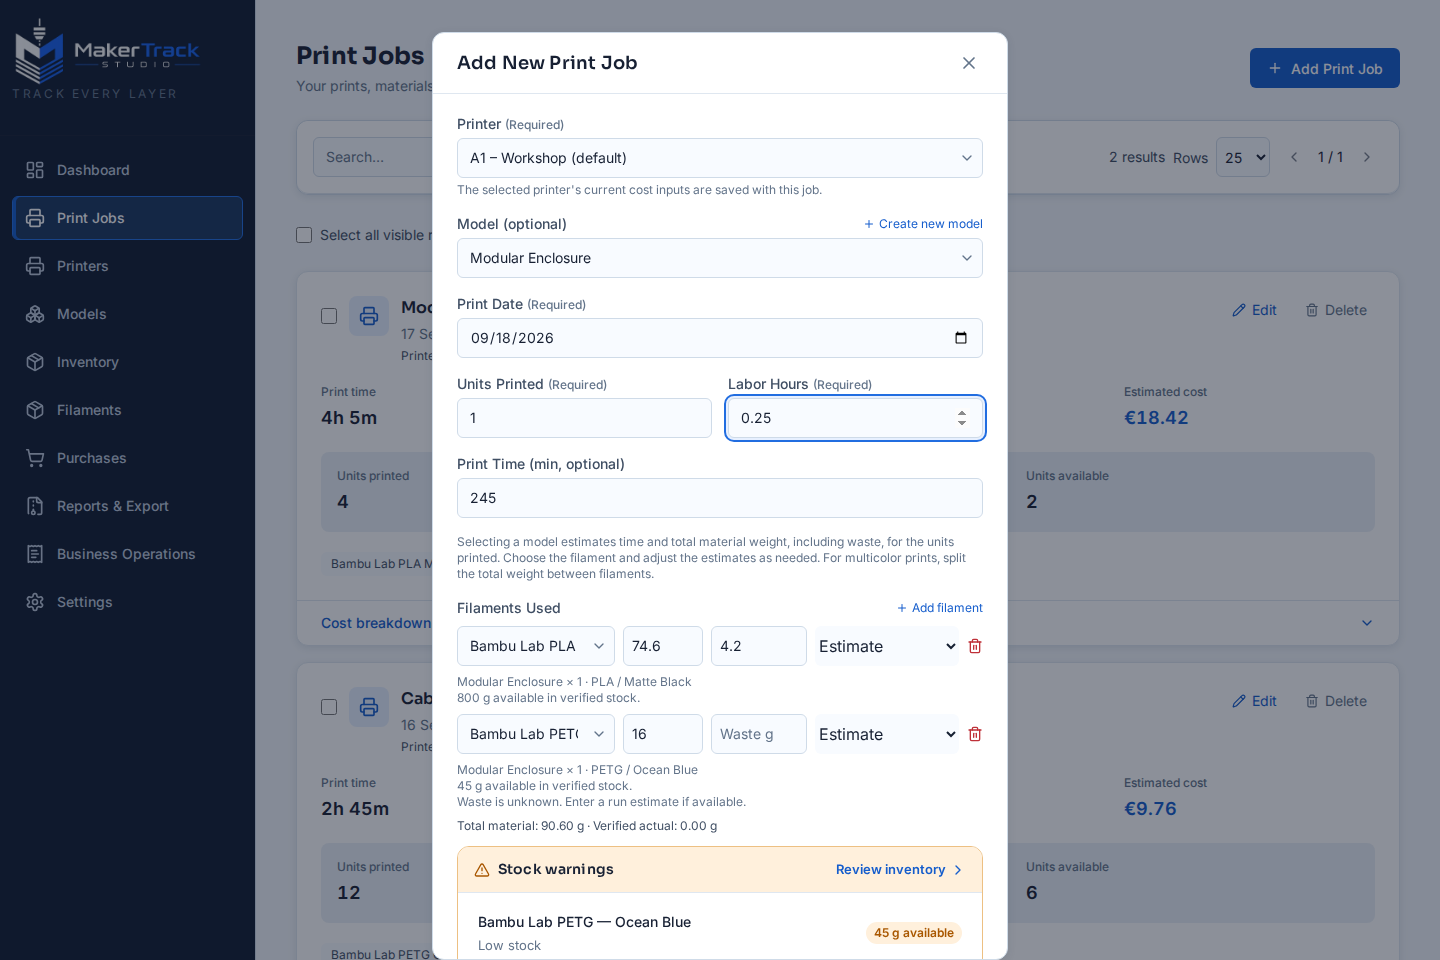
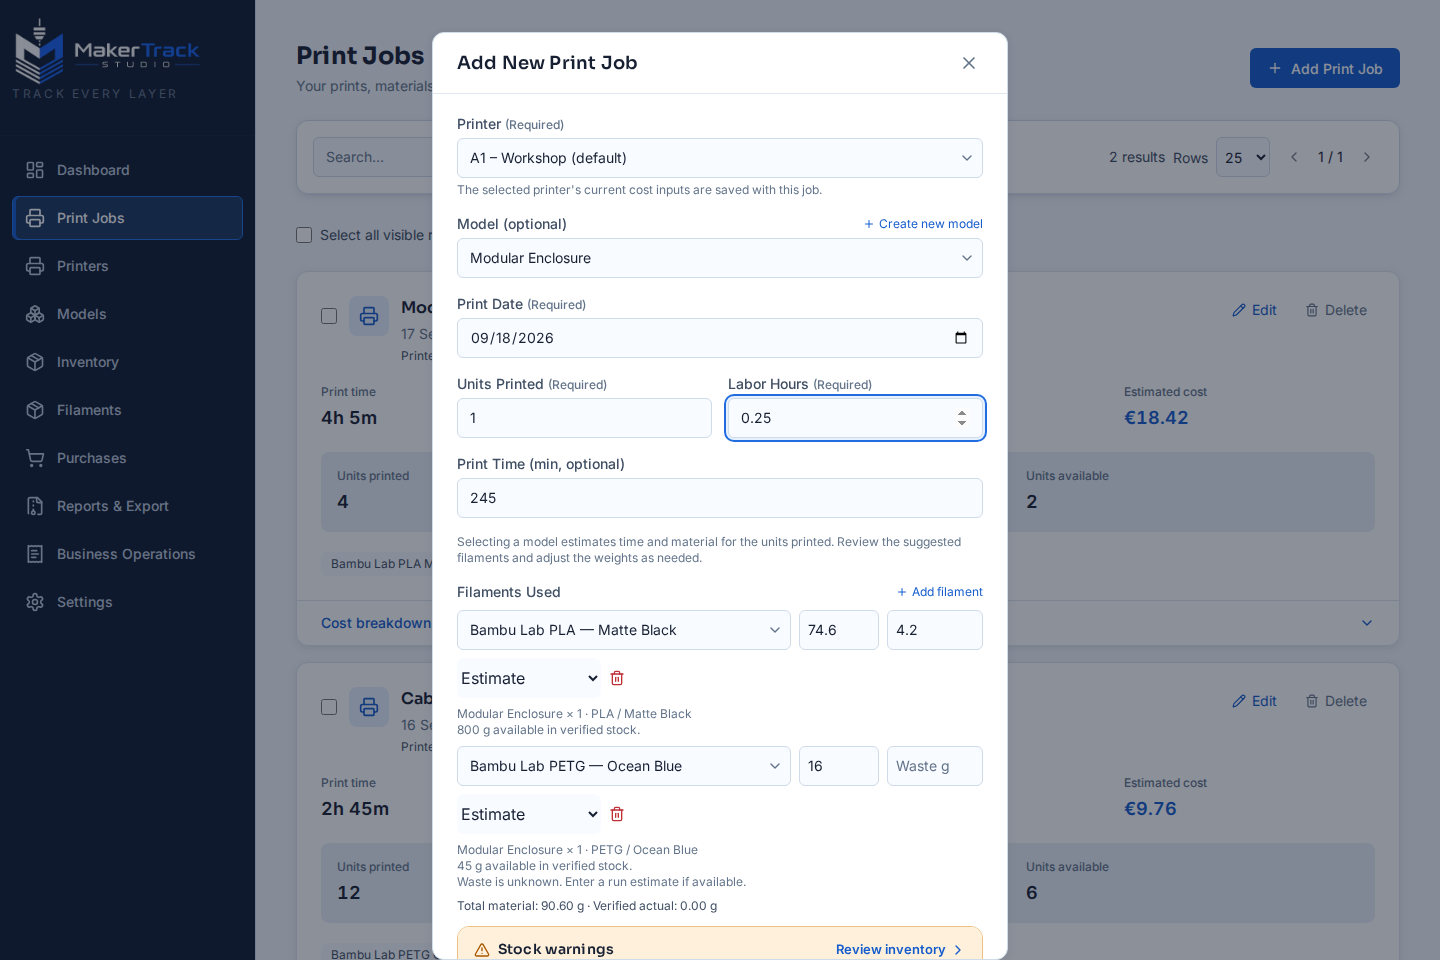
fix(production): clarify material estimates on narrow forms

diff --git a/apps/web/src/i18n/resources/pt-PT.js b/apps/web/src/i18n/resources/pt-PT.js
@@ -302,8 +302,8 @@ export default {
     title: 'Impressões', description: 'As suas impressões, materiais e custos em resumo.', add: 'Adicionar impressão', editTitle: 'Editar impressão', addTitle: 'Adicionar nova impressão', create: 'Criar impressão',
     printer: 'Impressora', selectPrinter: 'Selecionar impressora', archivedPrinter: 'Impressora arquivada', printerCostHelp: 'Os dados de custo atuais da impressora selecionada são guardados com esta impressão.',
     modelOptional: 'Modelo (opcional)', createModel: 'Criar novo modelo', noModel: 'Sem modelo', printDate: 'Data de impressão', laborHours: 'Horas de mão de obra', printTimeOptional: 'Tempo de impressão (min, opcional)',
-    estimatesHelp: 'A seleção de um modelo estima o tempo e o peso total de material, incluindo desperdício, para as unidades impressas. Escolha o filamento e ajuste as estimativas conforme necessário. Em impressões multicor, divida o peso total pelos filamentos.',
-    filamentsUsed: 'Filamentos utilizados', addFilament: 'Adicionar filamento', noFilamentsYet: 'Ainda não foram adicionados filamentos.', removeFilament: 'Remover filamento', totalMaterial: 'Material total', verifiedMaterial: 'Real confirmado', wasteGrams: 'Desperdício g', estimateLabel: 'Estimativa', materialHelp: 'Os valores do modelo são estimativas. Edite o peso total para registar uma medição; o desperdício está incluído nesse total.', materialState: { estimated: 'Estimativa', verified: 'Medido', legacy_unverified: 'Legado não confirmado' },
+    estimatesHelp: 'A seleção de um modelo estima o tempo e o material para as unidades impressas. Reveja os filamentos sugeridos e ajuste os pesos conforme necessário.',
+    filamentsUsed: 'Filamentos utilizados', addFilament: 'Adicionar filamento', noFilamentsYet: 'Ainda não foram adicionados filamentos.', removeFilament: 'Remover filamento', totalMaterial: 'Material total', verifiedMaterial: 'Real confirmado', wasteGrams: 'Desperdício g', estimateLabel: 'Estimativa', materialHelp: 'Os valores do modelo são estimativas. Se estiver disponível, selecione a opção de medição e introduza o total medido. O peso total inclui o desperdício.', materialState: { estimated: 'Estimativa', verified: 'Medido', legacy_unverified: 'Legado não confirmado' },
     updated: 'Impressão atualizada com sucesso', created: 'Impressão criada com sucesso', saveError: 'Não foi possível guardar a impressão. Os dados existentes não foram alterados.',
     needPrinter: 'Adicione uma impressora ativa antes de criar uma impressão', confirmDelete: 'Eliminar esta impressão? Esta ação não pode ser anulada.', deleted: 'Impressão eliminada',
     addActivePrefix: 'Adicione uma impressora ativa na', printersPage: 'página Impressoras', addActiveSuffix: 'antes de criar uma nova impressão.', sort: 'Ordenar impressões', newest: 'Mais recentes primeiro', oldest: 'Mais antigas primeiro',

diff --git a/apps/web/src/i18n/resources/en.js b/apps/web/src/i18n/resources/en.js
@@ -302,8 +302,8 @@ export default {
     title: 'Print Jobs', description: 'Your prints, materials and costs at a glance.', add: 'Add Print Job', editTitle: 'Edit Print Job', addTitle: 'Add New Print Job', create: 'Create Print Job',
     printer: 'Printer', selectPrinter: 'Select printer', archivedPrinter: 'Archived printer', printerCostHelp: "The selected printer's current cost inputs are saved with this job.",
     modelOptional: 'Model (optional)', createModel: 'Create new model', noModel: 'No model', printDate: 'Print Date', laborHours: 'Labor Hours', printTimeOptional: 'Print Time (min, optional)',
-    estimatesHelp: 'Selecting a model estimates time and total material weight, including waste, for the units printed. Choose the filament and adjust the estimates as needed. For multicolor prints, split the total weight between filaments.',
-    filamentsUsed: 'Filaments Used', addFilament: 'Add filament', noFilamentsYet: 'No filaments added yet.', removeFilament: 'Remove filament', totalMaterial: 'Total material', verifiedMaterial: 'Verified actual', wasteGrams: 'Waste g', estimateLabel: 'Estimate', materialHelp: 'Model values are estimates. Edit total grams to record a measurement; waste grams are included in that total.', materialState: { estimated: 'Estimate', verified: 'Measured', legacy_unverified: 'Unverified legacy' },
+    estimatesHelp: 'Selecting a model estimates time and material for the units printed. Review the suggested filaments and adjust the weights as needed.',
+    filamentsUsed: 'Filaments Used', addFilament: 'Add filament', noFilamentsYet: 'No filaments added yet.', removeFilament: 'Remove filament', totalMaterial: 'Total material', verifiedMaterial: 'Verified actual', wasteGrams: 'Waste g', estimateLabel: 'Estimate', materialHelp: 'Model values are estimates. Choose Measured actual if shown, then enter the measured total. Total grams include waste.', materialState: { estimated: 'Estimate', verified: 'Measured', legacy_unverified: 'Unverified legacy' },
     updated: 'Print job updated successfully', created: 'Print job created successfully', saveError: 'Could not save print job. Your existing data has not been changed.',
     needPrinter: 'Add an active printer before creating a Print Job', confirmDelete: 'Delete this print job? This cannot be undone.', deleted: 'Print job deleted',
     addActivePrefix: 'Add an active printer on the', printersPage: 'Printers page', addActiveSuffix: 'before creating a new Print Job.', sort: 'Sort print jobs', newest: 'Newest first', oldest: 'Oldest first',

diff --git a/apps/web/src/pages/PrintJobs.jsx b/apps/web/src/pages/PrintJobs.jsx
@@ -352,17 +352,19 @@ function PrintJobModal({ printJob, models, filaments, printers, onClose, onSaved
             {filamentRows.map((row, index) => (
               <div key={row.id ?? index} className="flex flex-wrap gap-2 items-center">
                 <FilamentSelect
-                  aria-label={`${t('filaments.title').slice(0, -1)} ${index + 1}`}
+                  aria-label={`${t('production.filament')} ${index + 1}`}
                   value={row.filament_id}
                   onChange={(filamentId) => updateFilamentRow(index, 'filament_id', filamentId)}
                   filaments={filaments}
-                  className="flex-1"
+                  className="min-w-52 flex-1"
                 />
                 <input
                   type="number"
                   step="0.01"
                   min="0"
                   placeholder="g"
+                  aria-label={`${t('production.grams')} ${index + 1}`}
+                  max="1000000000"
                   value={row.weight_used}
                   onChange={(e) => updateFilamentRow(index, 'weight_used', e.target.value)}
                   className="w-20 border ui-border-default rounded-md px-2 py-1.5 text-sm focus:outline-none focus:ring-2 focus:ui-focus-ring"
@@ -371,6 +373,7 @@ function PrintJobModal({ printJob, models, filaments, printers, onClose, onSaved
                   type="number"
                   step="0.01"
                   min="0"
+                  max="1000000000"
                   placeholder={t('printJobs.wasteGrams')}
                   aria-label={`${t('printJobs.wasteGrams')} ${index + 1}`}
                   value={row.waste_weight_g ?? ''}

diff --git a/apps/web/visual/catalog.screenshots.spec.js b/apps/web/visual/catalog.screenshots.spec.js
@@ -235,8 +235,12 @@ const scenarios = [
     slug: 'print-jobs-add-narrow', route: 'print-jobs', viewport: { width: 390, height: 844 }, prepare: async (page) => {
       await ready.printJobs(page);
       await page.getByRole('button', { name: 'Add Print Job' }).click();
-      await expect(page.getByRole('heading', { name: 'Add New Print Job' })).toBeVisible();
-      await expect(page.getByText(/Model values are estimates/)).toBeVisible();
+      const dialog = page.getByRole('dialog', { name: 'Add New Print Job' });
+      await dialog.getByRole('combobox', { name: 'Model' }).fill('modular');
+      await dialog.getByRole('option', { name: 'Modular Enclosure' }).click();
+      await expect(dialog.getByLabel('Filament 2')).toHaveValue('Bambu Lab PETG — Ocean Blue');
+      await dialog.getByLabel('Filament 1').scrollIntoViewIfNeeded();
+      await expect(dialog.getByText(/Model values are estimates/)).toBeVisible();
     },
   },
   { slug: 'printers', route: 'printers', prepare: ready.printers },
